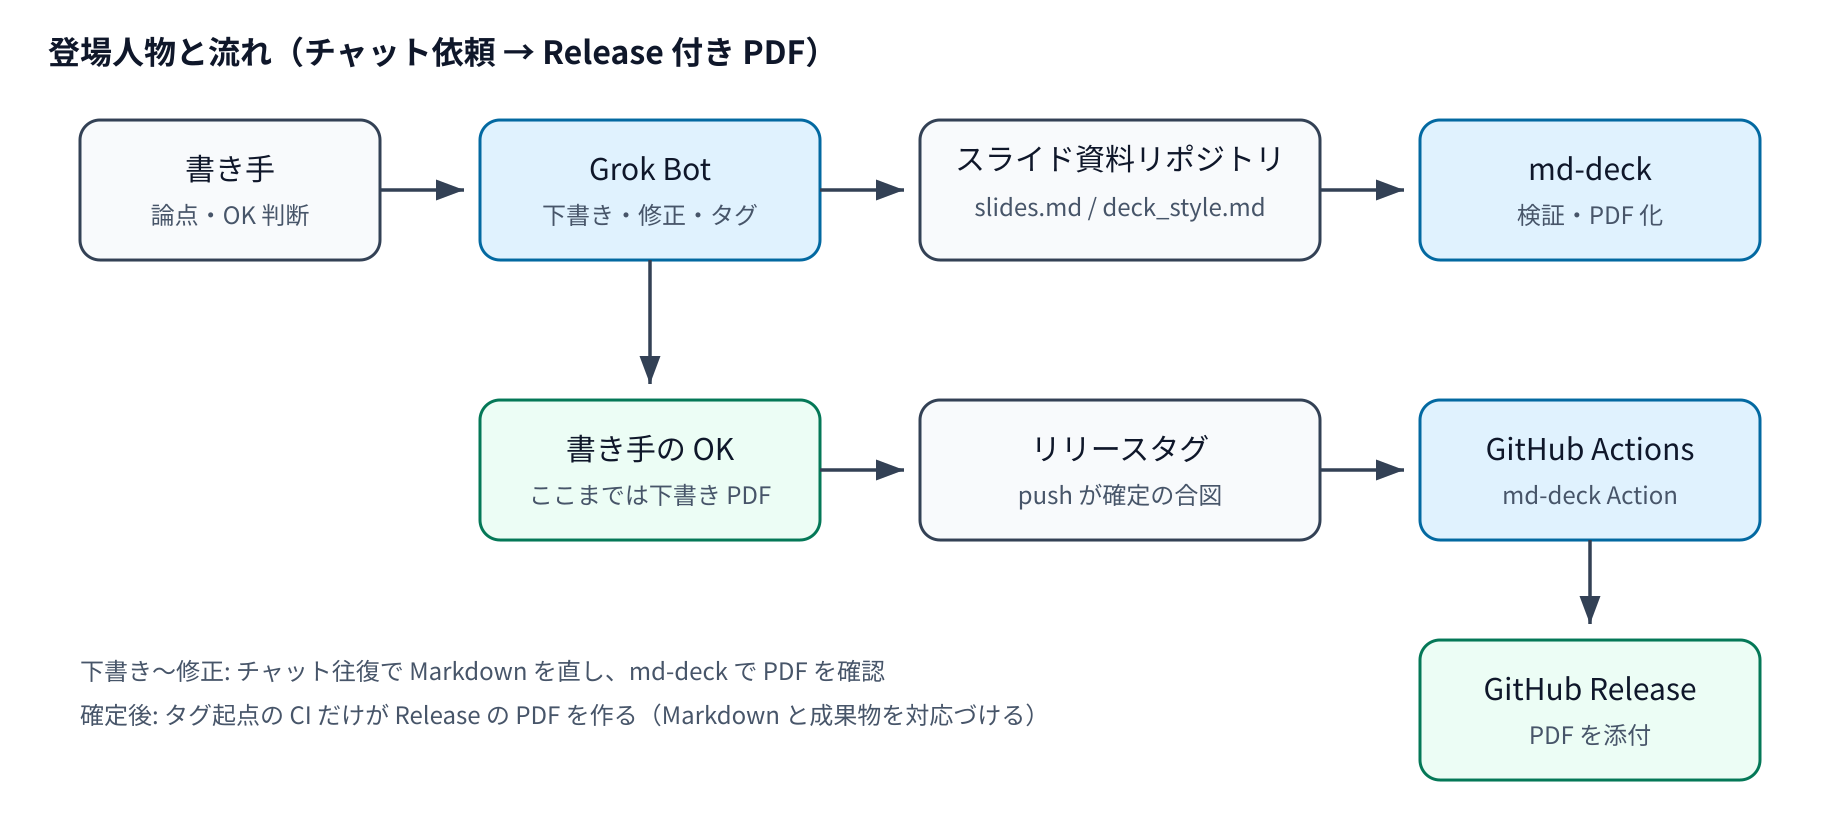
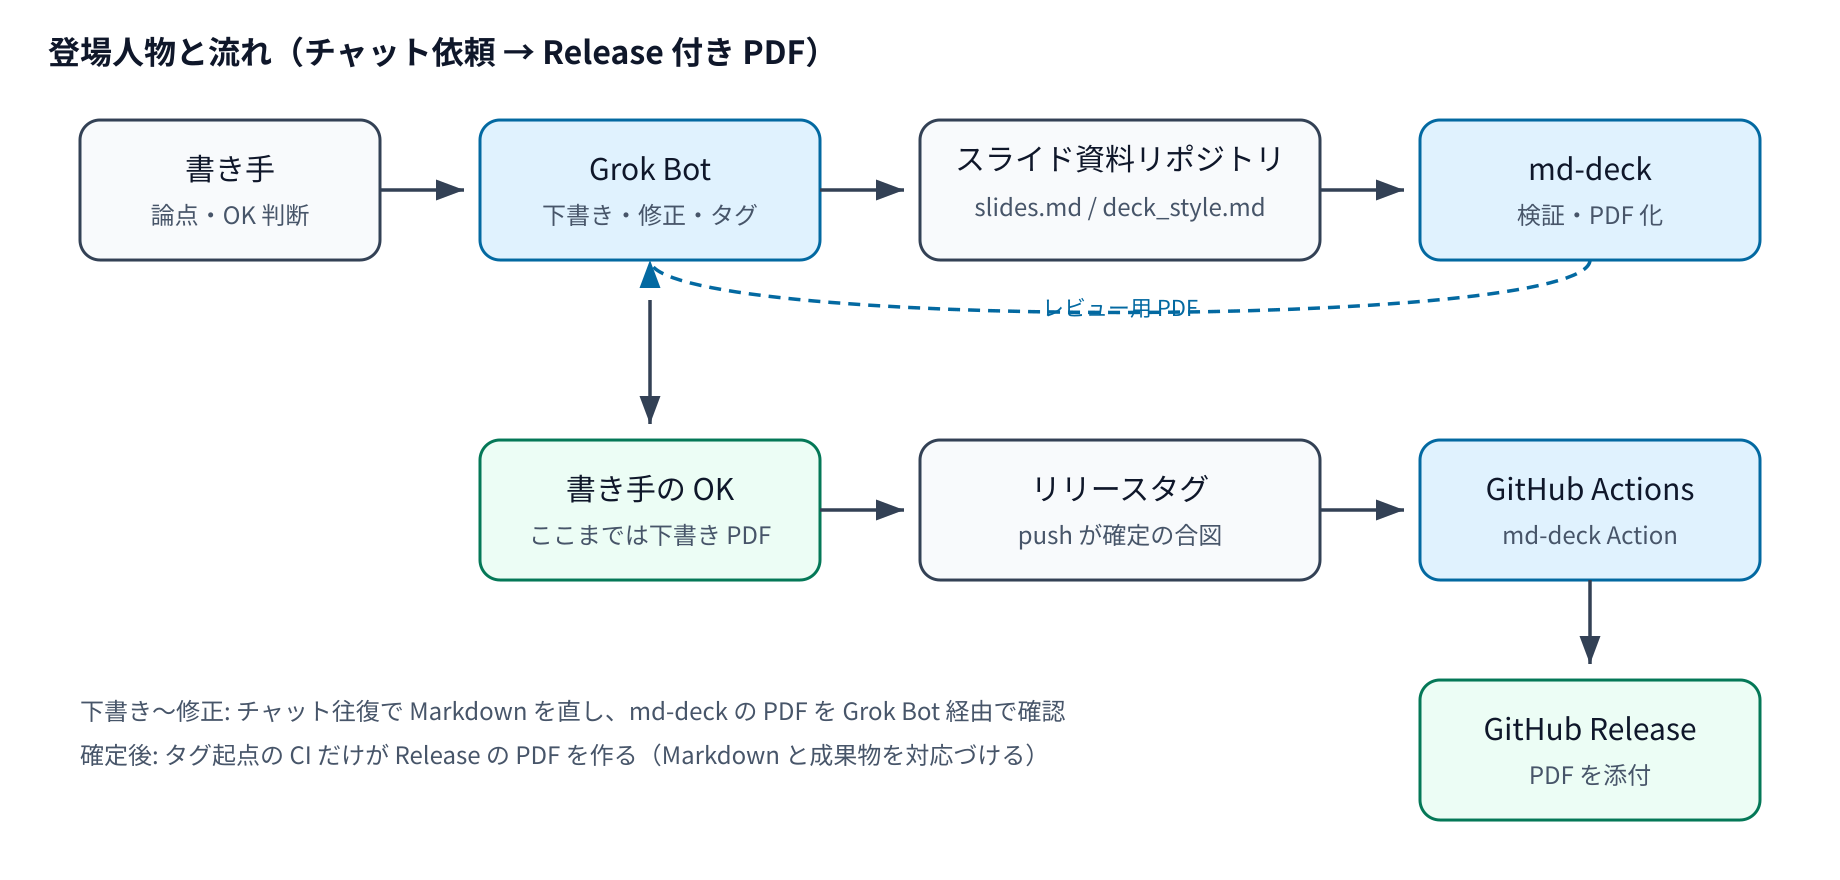
Add dashed review-PDF return arrow to the md-deck draft diagram
The approved caption now explains that md-deck sends a review PDF back to Grok Bot before the author's OK.

diff --git a/articles/2026-10-25-md-deck-from-chat-to-release.md b/articles/2026-10-25-md-deck-from-chat-to-release.md
@@ -10,9 +10,9 @@ published: false
 
 登場するのは、論点を伝えて版を確定させる書き手（私）、依頼を受けて Markdown を書き直す Grok Bot、スライド本文とスタイルガイドを置くスライド資料のリポジトリ、Markdown を検証して PDF にする md-deck、そしてタグの push で PDF をビルドして Release に添付する GitHub Actions です。
 
-![登場人物と流れ。書き手→Grok Bot→スライド資料リポジトリ→md-deck、OK後にタグ→GitHub Actions→Release](/images/md-deck-flow.png)
+![登場人物と流れ。書き手→Grok Bot→スライド資料リポジトリ→md-deck、レビュー用PDFはGrok Botへ戻り、書き手のOK後にタグ→GitHub Actions→Release](/images/md-deck-flow.png)
 
-上段がチャットでの下書きと修正の往復で、下段が書き手の OK のあとに版を確定させて Release に PDF を載せる流れです。
+上段がチャットでの下書きと修正の往復で、破線は md-deck が作ったレビュー用 PDF が Grok Bot に戻る経路です。下段が書き手の OK のあとに版を確定させて Release に PDF を載せる流れです。
 
 ## NotebookLM で作っていたときの二つの不満
 
